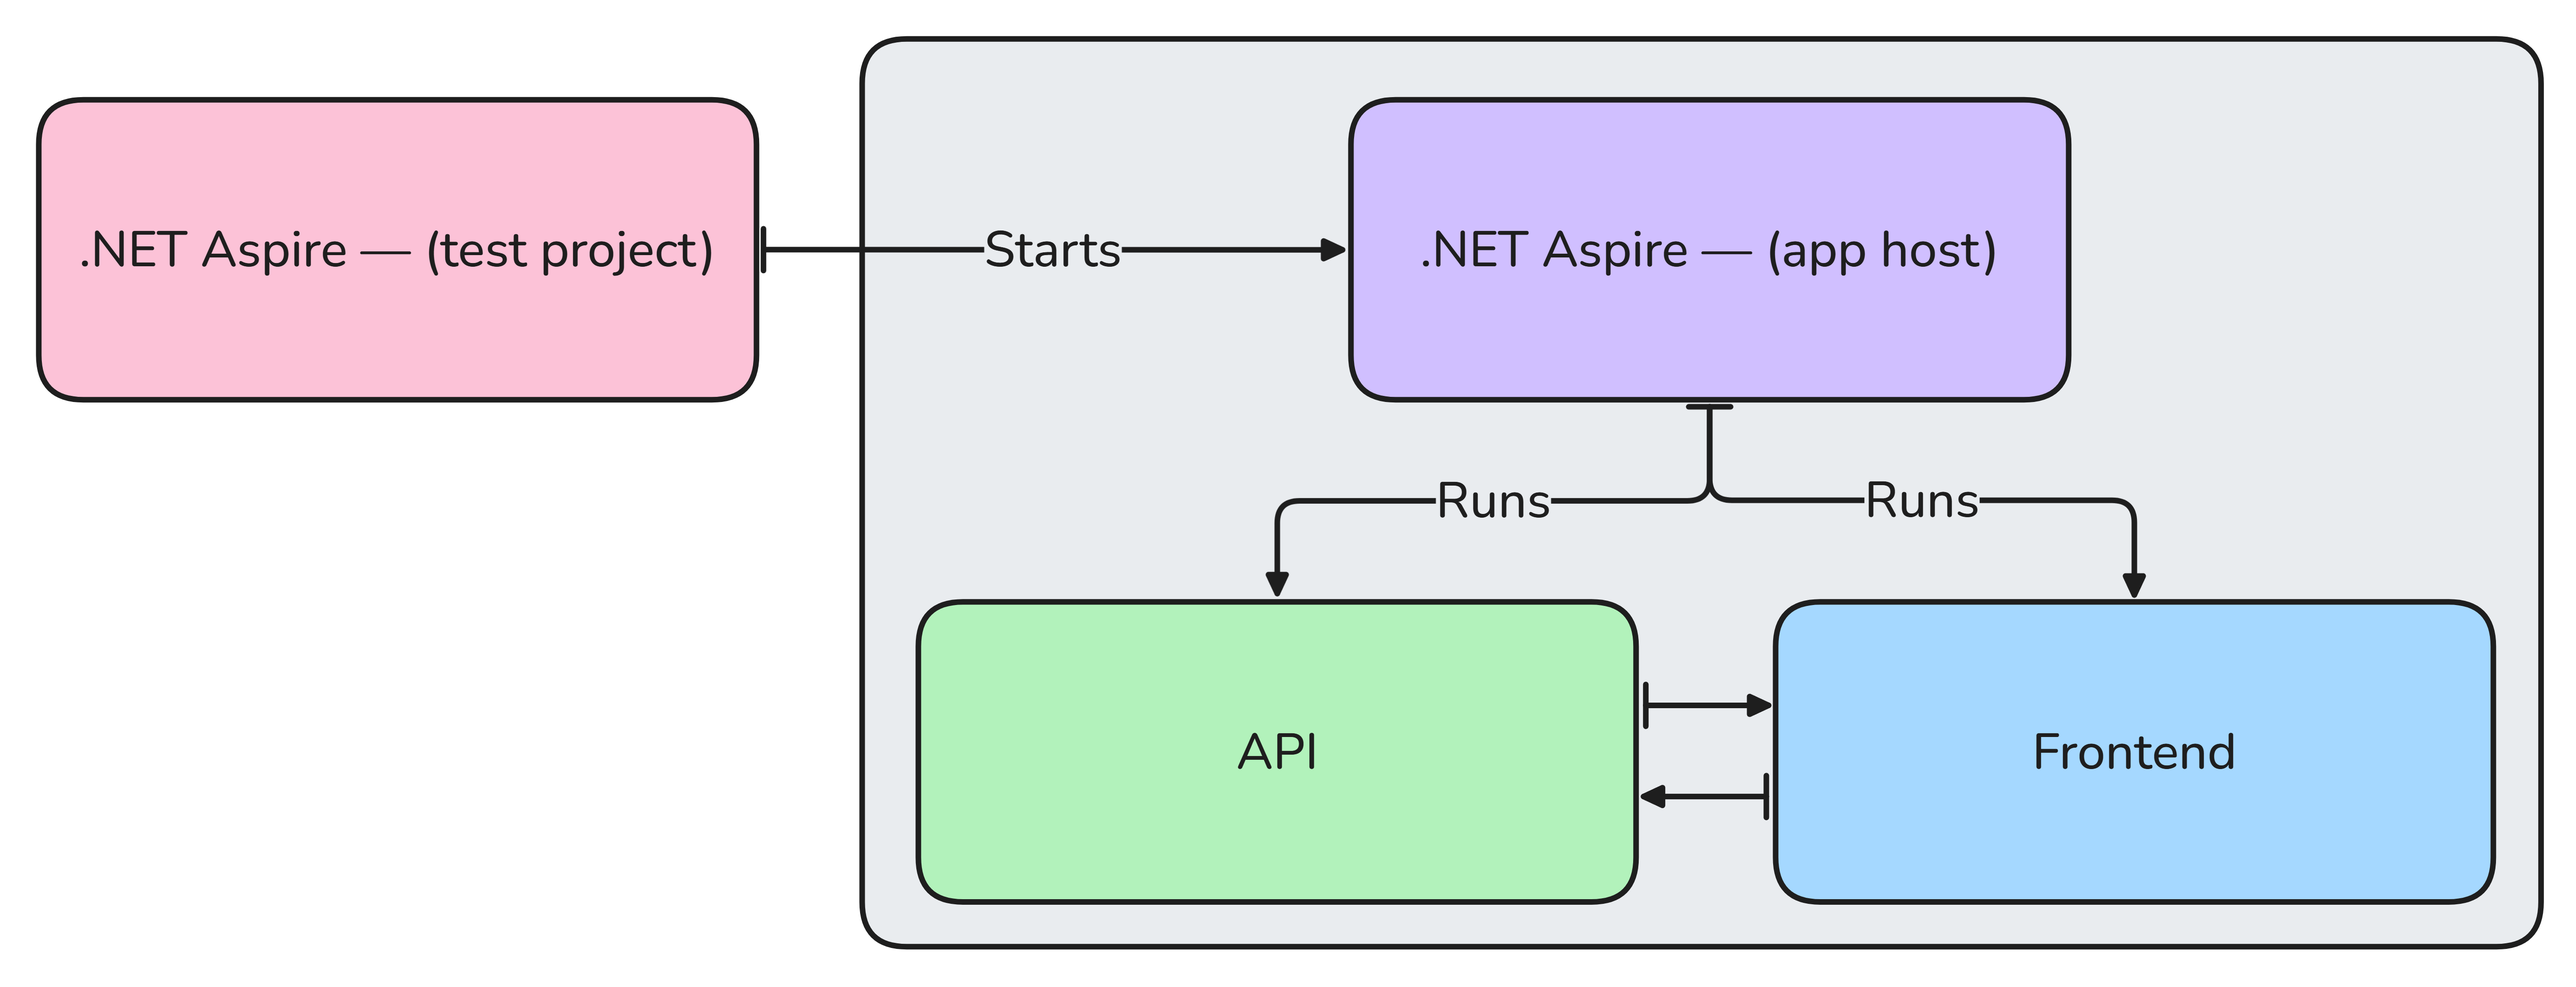
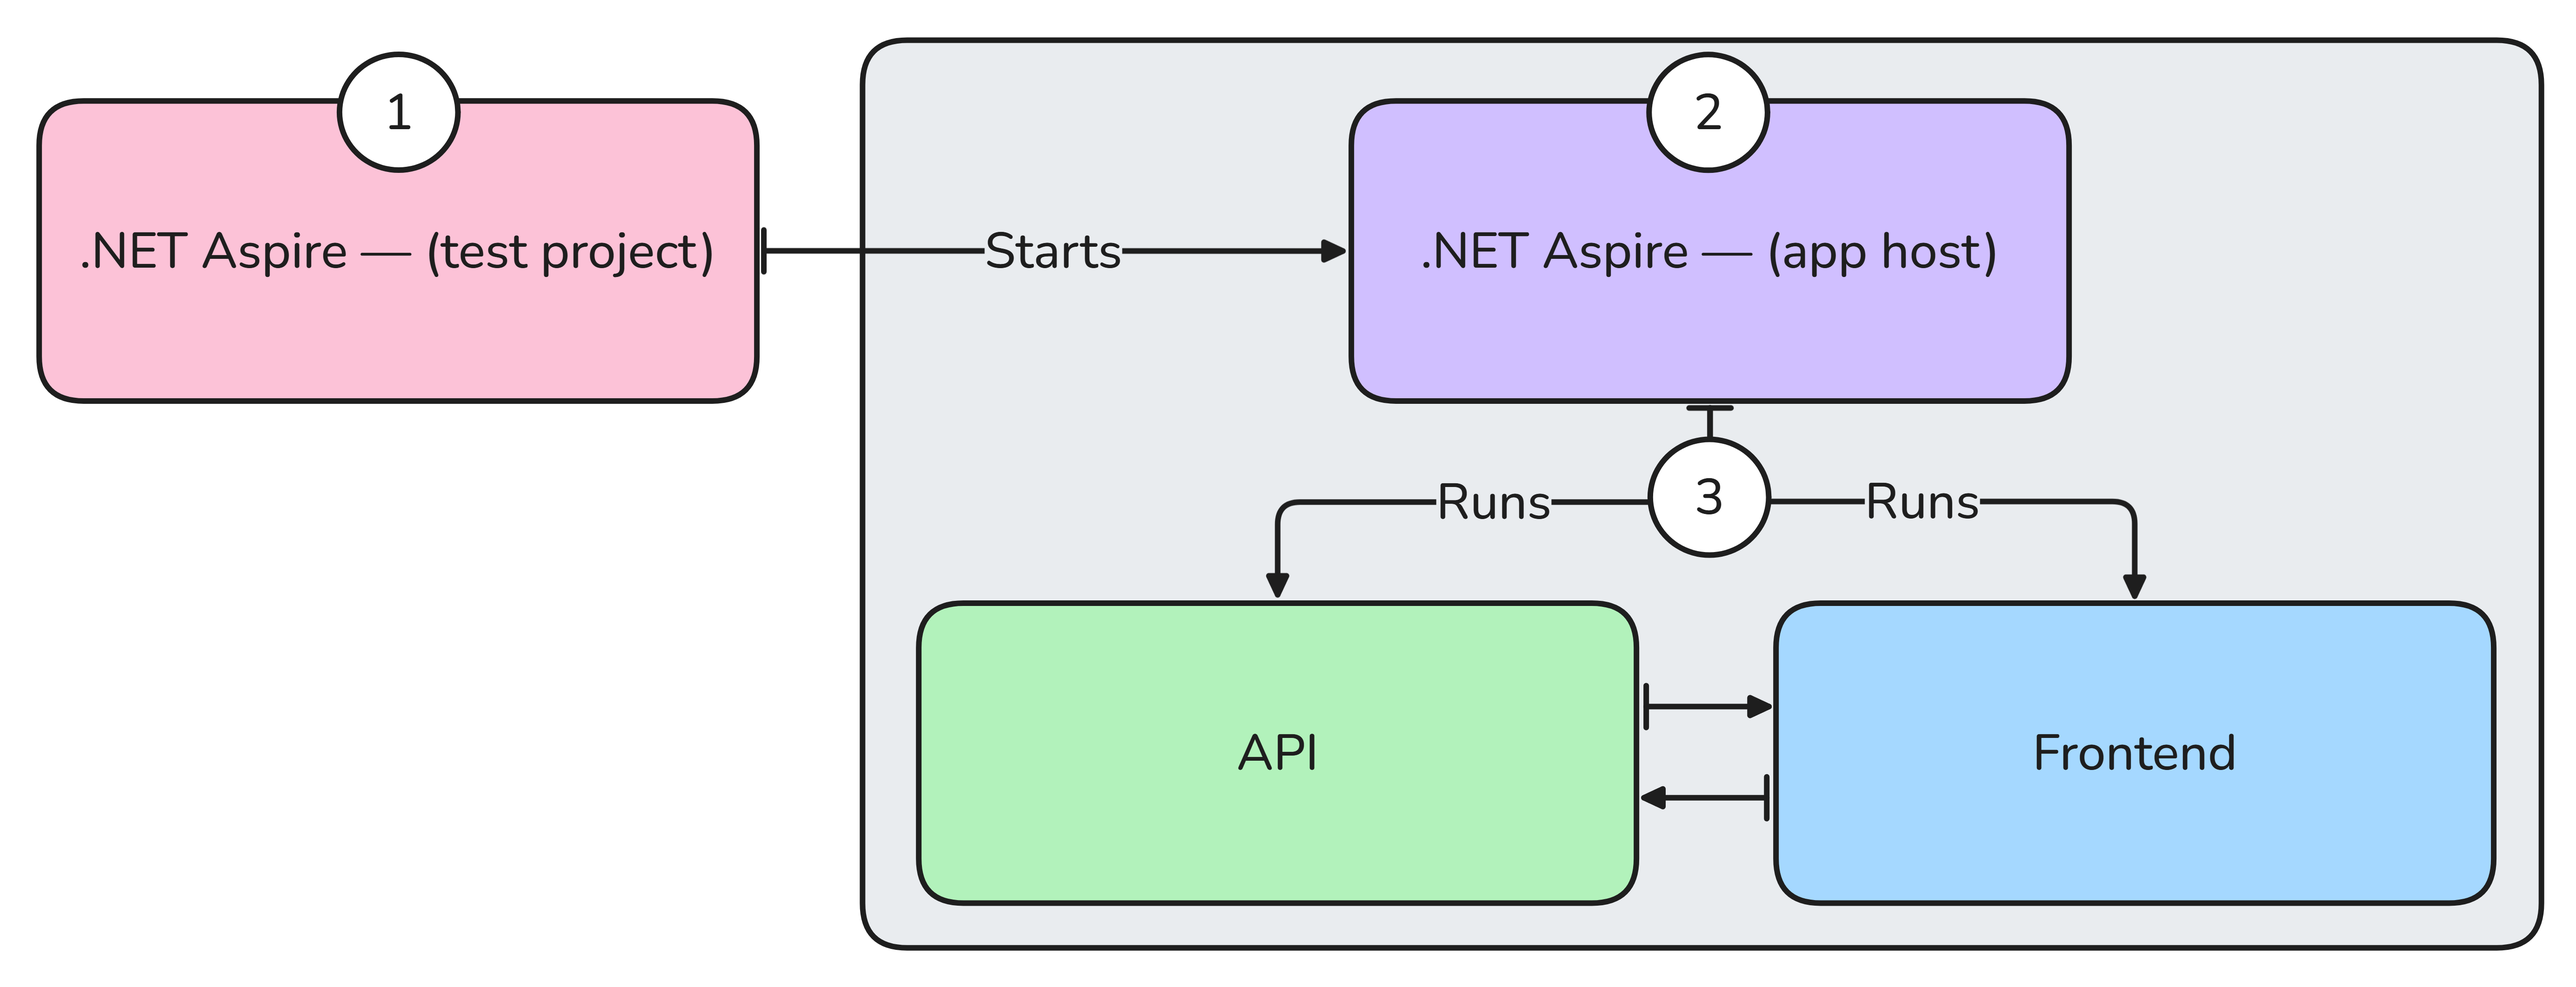
Add a bit more

diff --git a/docs/testing/overview.md b/docs/testing/overview.md
@@ -20,10 +20,11 @@ Consider the following diagram that helps illustrate how the .NET Aspire testing
 
 :::image type="content" source="media/testing-diagram-thumb.png" alt-text=".NET Aspire testing diagram" lightbox="media/testing-diagram.png":::
 
-The preceding diagram shows the following:
+1. The **test project** starts the app host.
+1. The **app host** process starts.
+1. The **app host** orchestrates the application and its resources.
 
-- The **test project** is responsible for starting the app host.
-- The **app host** is responsible for starting the applications and its resources.
+The diagram illustrates that the **test project** starts the app host, which then orchestrates the application and its resources. The test project can send an HTTP request to the frontend app, which depends on an API app. A successful request confirms that the frontend app can communicate with the API app.
 
 Use .NET Aspire testing when you want to:
 
